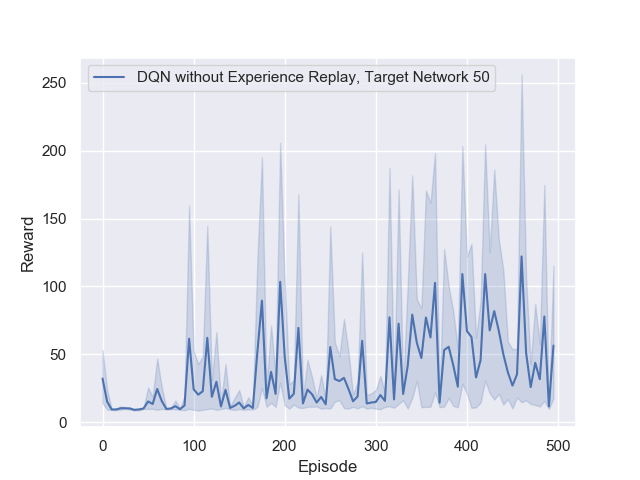
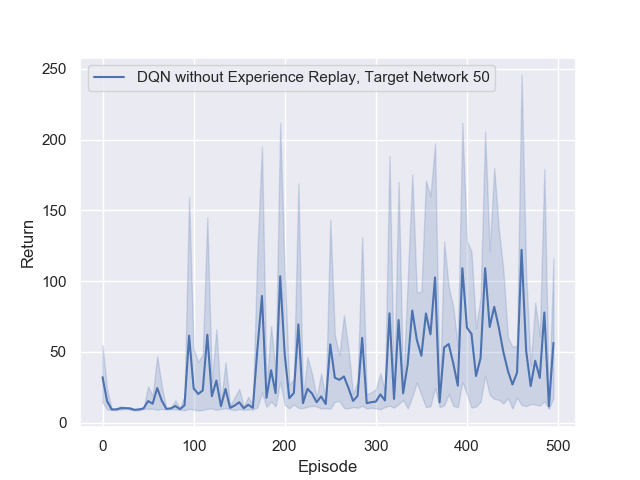
change reward to return

diff --git a/plot_stuff.py b/plot_stuff.py
@@ -17,11 +17,11 @@ def run_fig_1():
     plt.figure()
     lineplot = sns.lineplot(x='episode', y='value', hue='variable', 
                 data=pd.melt(new_df, ['episode']), ci=95)
-    lineplot.set(ylabel='Reward', xlabel='Episode')
+    lineplot.set(ylabel='Return', xlabel='Episode')
     handles, labels = lineplot.get_legend_handles_labels()
     lineplot.legend(handles=handles[1:], labels=labels[1:], loc='upper left')
     fig = lineplot.get_figure()
-    fig.savefig("full-fig-{}.png".format(int(time.time())))
+    fig.savefig("yoni-fig-1-{}.png".format(int(time.time())))
 
 
 def run_fig_2():
@@ -32,11 +32,11 @@ def run_fig_2():
     plt.figure()
     lineplot = sns.lineplot(x='episode', y='value', hue='variable', 
                 data=pd.melt(new_df, ['episode']), ci=95)
-    lineplot.set(ylabel='Reward', xlabel='Episode')
+    lineplot.set(ylabel='Return', xlabel='Episode')
     handles, labels = lineplot.get_legend_handles_labels()
     lineplot.legend(handles=handles[1:], labels=labels[1:], loc='upper left')
     fig = lineplot.get_figure()
-    fig.savefig("full-fig-{}.png".format(int(time.time())))
+    fig.savefig("yoni-fig-2-{}.png".format(int(time.time())))
 
 
 def run_fig_3():
@@ -47,11 +47,11 @@ def run_fig_3():
     plt.figure()
     lineplot = sns.lineplot(x='episode', y='value', hue='variable', 
                 data=pd.melt(new_df, ['episode']), ci=95)
-    lineplot.set(ylabel='Reward', xlabel='Episode')
+    lineplot.set(ylabel='Return', xlabel='Episode')
     handles, labels = lineplot.get_legend_handles_labels()
     lineplot.legend(handles=handles[1:], labels=labels[1:], loc='upper left')
     fig = lineplot.get_figure()
-    fig.savefig("full-fig-{}.png".format(int(time.time())))
+    fig.savefig("yoni-fig-3-{}.png".format(int(time.time())))
 
 def run_ommitted_fig_of_non_convergence():
     results = pickle.load(open('results_for_dqn_wo_replay_not_converging_over_500_episodes.pkl', 'rb'))
@@ -61,10 +61,14 @@ def run_ommitted_fig_of_non_convergence():
     plt.figure()
     lineplot = sns.lineplot(x='episode', y='value', hue='variable', 
                 data=pd.melt(new_df, ['episode']), ci=95)
-    lineplot.set(ylabel='Reward', xlabel='Episode')
+    lineplot.set(ylabel='Return', xlabel='Episode')
     handles, labels = lineplot.get_legend_handles_labels()
     lineplot.legend(handles=handles[1:], labels=labels[1:], loc='upper left')
     fig = lineplot.get_figure()
-    fig.savefig("full-fig-{}.png".format(int(time.time())))
+    fig.savefig("yoni-fig-omit-{}.png".format(int(time.time())))
 
+
+run_fig_1()
+run_fig_2()
+run_fig_3()
 run_ommitted_fig_of_non_convergence()
